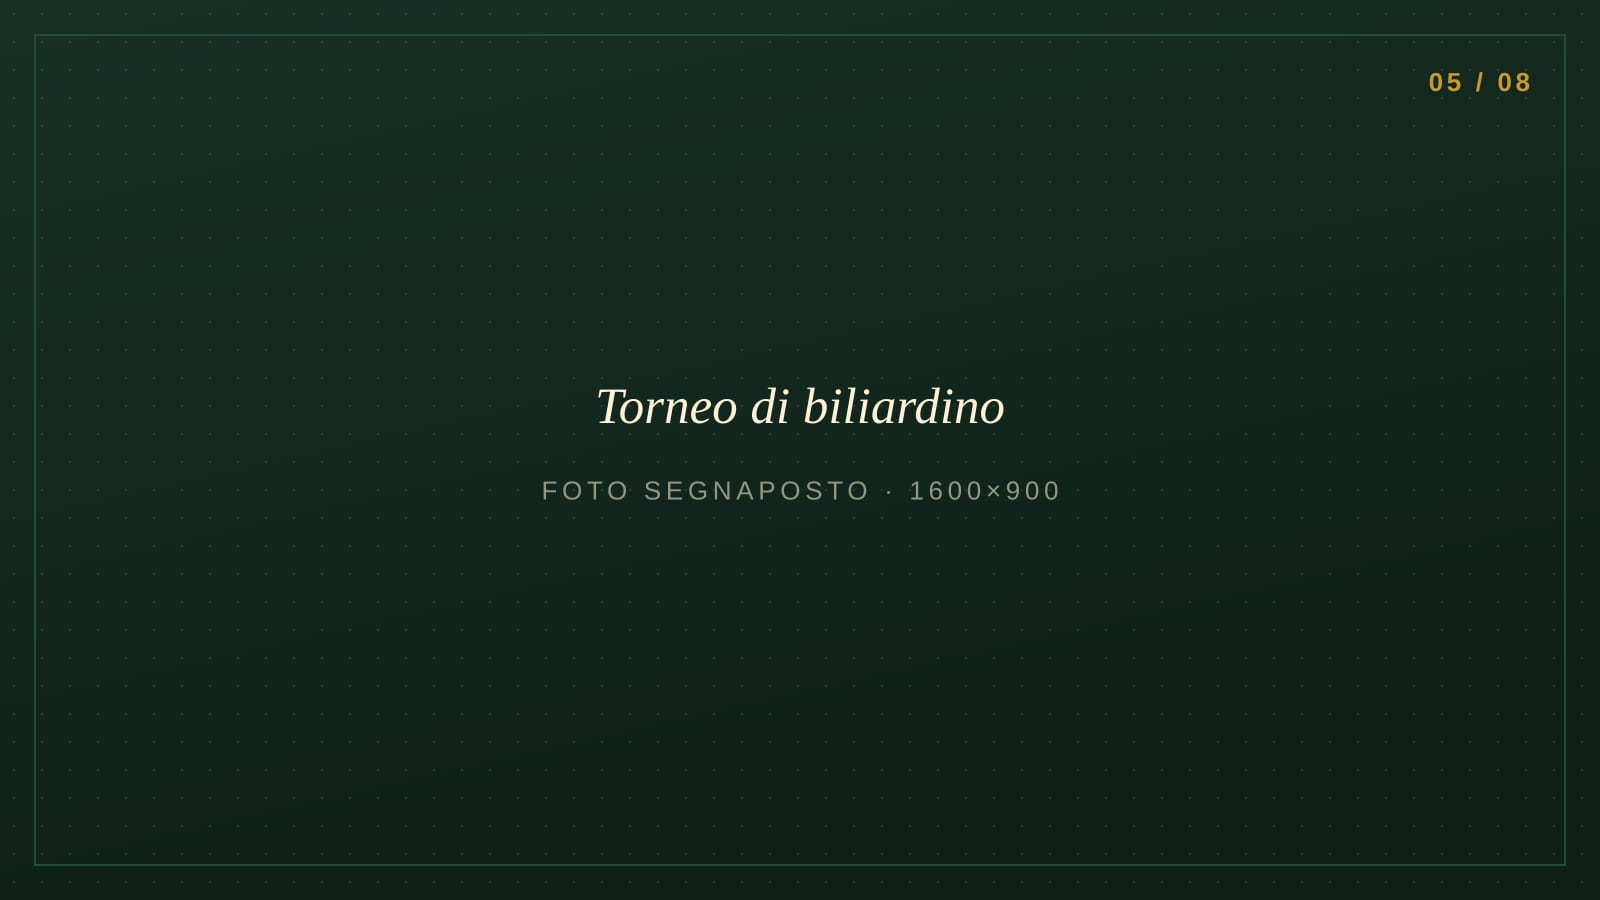
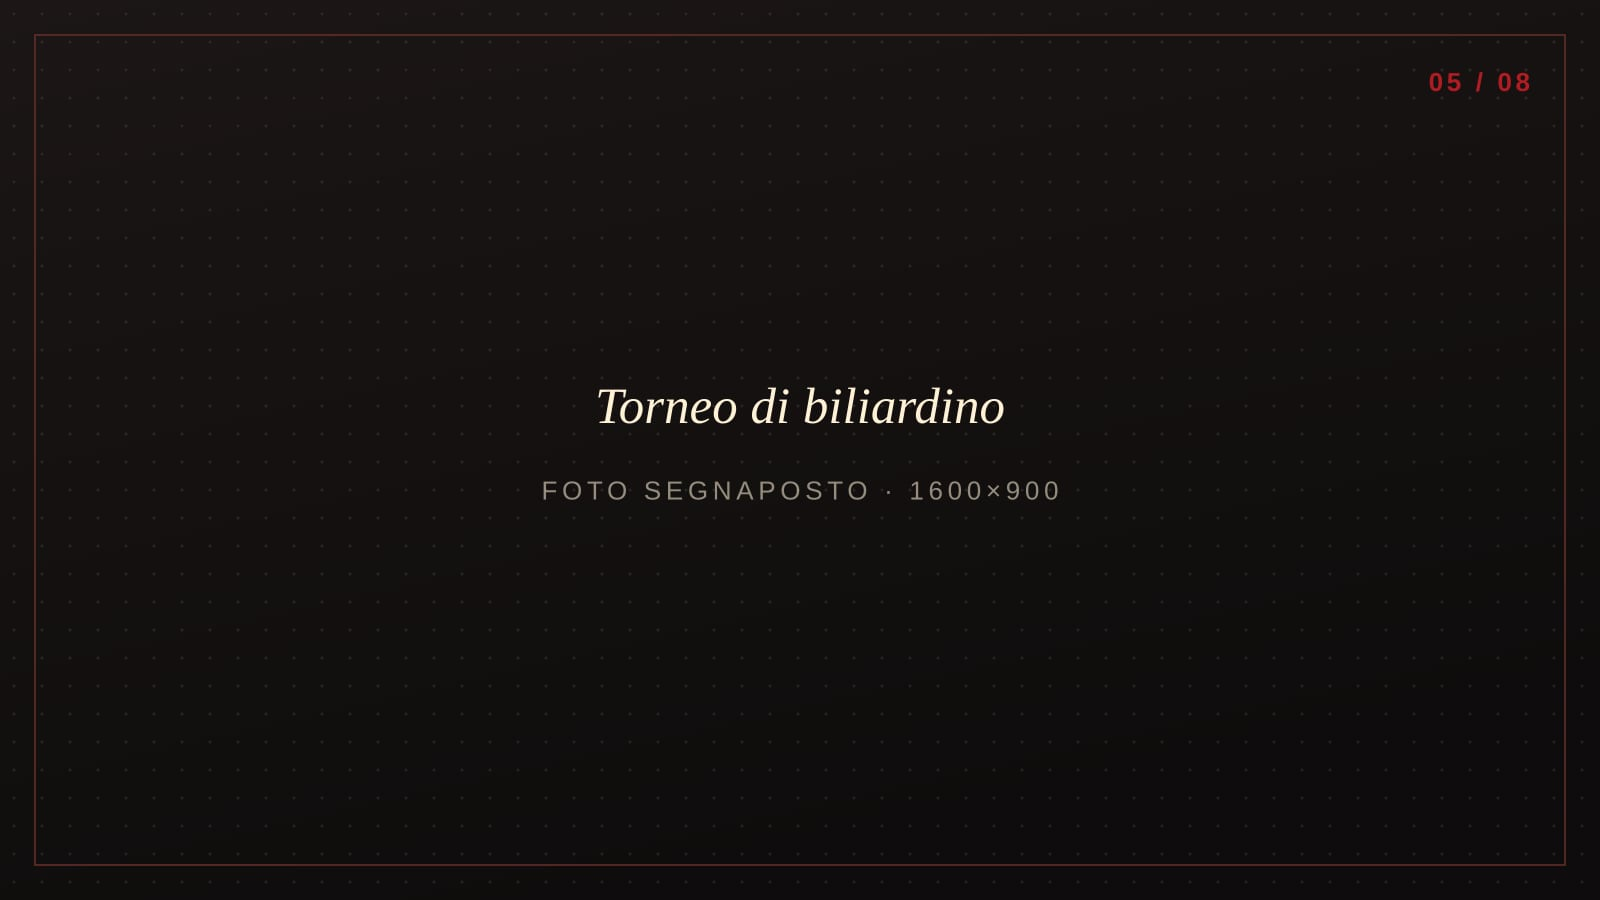
Allinea la palette alla locandina ufficiale e aggiunge i dati mancanti
I colori del marchio non erano quelli del logo isolato: la locandina
dell'inaugurazione li mostra completi. Palette campionata dai file, non scelta
a occhio — rosso #841418-#b81830 dalla fascia e dalla luna, crema #fff1d6 dal
PNG del logo, fondo nero.

Palette
- Il verde e l'ottone sono sostituiti da nero, rosso e crema.
- Il rosso segue l'uso della locandina: sul fondo scuro è riempimento (titoli,
  pulsanti, filetti), sulle sezioni pergamena diventa colore del testo, come il
  "12 SETTEMBRE" sulla toppa di carta. Il testo scuro sul rosso è stato
  sostituito con il crema: 2,2:1 non era leggibile, il crema arriva a 7,6:1.
- Il fondo è #0e0c0c e non nero puro: su schermo il nero pieno contro il crema
  vibra, sulla carta stampata no.
- Badge di difficoltà in inchiostro neutro, rosso riservato al livello alto,
  così ottanta badge non diventano una tavolozza.

Dati presi dalla locandina
- Telefono 352 218 5856, con link WhatsApp: il poster mette il numero sotto
  "per info e prenotazioni", quindi passa nella striscia pratica e nei contatti.
- Comune corretto: Vallescuropasso, Cigognola (PV).
- Tesseramento CSEN obbligatorio dai 6 anni, con possibilità di tesserarsi
  online a prezzo scontato. Era il dato pratico più importante per chi non è
  mai stato al circolo e non compariva da nessuna parte sul sito precedente.
- "Boardgame Inclusive Club" come tagline.
- Programma dell'inaugurazione con i tre orari, reso come tabella nell'evento.
[…]

diff --git a/src/styles/global.css b/src/styles/global.css
@@ -1,16 +1,21 @@
 /*
  * Il Ritrovo della Compagnia — design system
  *
- * The palette is taken from the client's own logo rather than invented: the
- * wordmark is cream line art (#fff1d6 sampled straight from the PNG) drawn for
- * a dark ground — a crescent moon and a sword. So the brand is nocturnal, and
- * the site is built dark to let the logo sit on its intended background.
+ * The palette is the client's own, sampled from their official poster and
+ * logo artwork rather than invented:
+ *   nero    #000     — the poster ground
+ *   rosso   #841418 → #b81830 — the banner and moon ink
+ *   crema   #fff1d6  — sampled from the logo PNG
  *
- * The risk with a dark site in this category is looking like a gamer cave and
- * scaring off casual visitors — the mistake Mox Boarding House publicly
- * rebuilt their own site to fix. Two things keep it approachable here: the
- * ground is a warm green-black rather than pure black, and the dense reading
- * sections (ludoteca, tessera, orari) sit on parchment instead of dark.
+ * How red is used follows the poster: on the black ground it is a fill — big
+ * display type, the moon, rules and buttons — never small body text, where it
+ * would not carry enough contrast. On the parchment sections red becomes the
+ * text colour, exactly as "12 SETTEMBRE" sits on its torn-paper patch.
+ *
+ * The risk with a dark site in this category is looking like a gamer cave —
+ * the mistake Mox Boarding House publicly rebuilt their site to fix. Here the
+ * dense reading sections (ludoteca, prenotazioni, contatti) sit on parchment,
+ * which is also true to the poster's mix of black and aged paper.
  */
 
 @import 'tailwindcss';
@@ -19,33 +24,37 @@
 @import '@fontsource-variable/inter/index.css';
 
 @theme {
-  /* Night — the primary brand ground, green-black and warm, never pure black. */
-  --color-notte: #0e1f17;
-  --color-notte-raised: #142a20;
-  --color-notte-soft: #1c3a2c;
-  --color-notte-line: #27503d;
+  /* Ground. Warm near-black rather than the poster's pure #000: on a backlit
+     screen pure black against cream vibrates, on printed ink it does not. */
+  --color-notte: #0e0c0c;
+  --color-notte-raised: #171313;
+  --color-notte-line: #33231f;
 
   /* Cream — sampled from the logo artwork. */
   --color-crema: #fff1d6;
 
-  /* Parchment — the light counterweight for dense reading sections. */
-  --color-pergamena: #f6ead2;
-  --color-pergamena-sunk: #ecdcbd;
-  --color-inchiostro: #14241b;
-  --color-inchiostro-soft: #4a5a4e;
+  /* Red — the poster's two reds: the deep aged banner and the brighter accent. */
+  --color-rosso: #b31b22;
+  --color-rosso-scuro: #7e1116;
+  --color-rosso-chiaro: #d93a42;
 
-  /* Candlelight accents. */
-  --color-ottone: #c9982f;
-  --color-ottone-chiaro: #e5c887;
-  --color-rame: #a8503a;
+  /* Warm tan, for small caps on the dark ground where red cannot pass contrast. */
+  --color-tan: #d9bba6;
+
+  /* Parchment — the poster's torn-paper patches, and the counterweight that
+     keeps the dense sections readable. */
+  --color-pergamena: #e9dcc6;
+  --color-pergamena-sunk: #dbc9ae;
+  --color-inchiostro: #17110f;
+  --color-inchiostro-soft: #574840;
 
   --font-display: 'Fraunces Variable', 'Iowan Old Style', Georgia, serif;
   --font-sans: 'Inter Variable', system-ui, -apple-system, 'Segoe UI', sans-serif;
 
   --radius-card: 0.875rem;
 
-  --shadow-lift: 0 1px 2px rgb(0 0 0 / 0.2), 0 12px 32px -16px rgb(0 0 0 / 0.55);
-  --shadow-lift-lg: 0 2px 6px rgb(0 0 0 / 0.25), 0 32px 64px -28px rgb(0 0 0 / 0.7);
+  --shadow-lift: 0 1px 2px rgb(0 0 0 / 0.3), 0 12px 32px -16px rgb(0 0 0 / 0.7);
+  --shadow-lift-lg: 0 2px 6px rgb(0 0 0 / 0.35), 0 32px 64px -28px rgb(0 0 0 / 0.85);
 
   --spacing-section: 5rem;
   --spacing-section-lg: 7.5rem;
@@ -91,14 +100,14 @@
   }
 
   :focus-visible {
-    outline: 2px solid var(--color-ottone);
+    outline: 2px solid var(--color-rosso-chiaro);
     outline-offset: 3px;
     border-radius: 2px;
   }
 
   ::selection {
-    background-color: var(--color-ottone);
-    color: var(--color-notte);
+    background-color: var(--color-rosso);
+    color: var(--color-crema);
   }
 
   @media (prefers-reduced-motion: reduce) {
@@ -136,5 +145,6 @@
   font-weight: 600;
   letter-spacing: 0.18em;
   text-transform: uppercase;
-  color: var(--color-ottone);
+  /* Tan by default (dark ground); Section.astro swaps it to red on parchment. */
+  color: var(--color-tan);
 }

diff --git a/src/data/site.ts b/src/data/site.ts
@@ -20,7 +20,9 @@ export interface OpeningHours {
 export const site = {
   name: 'Il Ritrovo della Compagnia',
   shortName: 'Il Ritrovo',
-  tagline: 'Circolo ludico analogico',
+  tagline: 'Boardgame Inclusive Club',
+  /** Come si definiva il sito precedente; resta utile per i sottotitoli. */
+  sottotitolo: 'Circolo ludico analogico',
 
   /** The client's own positioning line. */
   claim: 'Il punto di ritrovo per chi ama il gioco non digitale',
@@ -28,21 +30,23 @@ export const site = {
   promessa: 'Circolo inclusivo e non esclusivo.',
 
   description:
-    'Circolo ludico analogico a Valle Scuropasso: giochi da tavolo, Pokémon, Magic e giochi di ruolo. Atmosfera da gilda, energia da torneo, accoglienza da compagnia.',
+    'Boardgame inclusive club a Vallescuropasso (Cigognola, PV): giochi da tavolo, Pokémon, Magic e giochi di ruolo. Atmosfera da gilda, energia da torneo, accoglienza da compagnia.',
 
   address: {
-    street: 'SP198, 117',
+    street: 'SP 198, 117',
+    /** Località, come indicata sulla locandina. */
+    localita: 'Vallescuropasso',
     postalCode: '27040',
-    city: 'Valle Scuropasso',
+    city: 'Cigognola',
     province: 'PV',
     region: 'Lombardia',
     country: 'IT',
   },
 
   email: 'info@ilritrovodellacompagnia.it',
-  /** TODO: il sito attuale non pubblica un numero di telefono. Chiederlo al cliente. */
-  phone: '',
-  phoneHref: '',
+  phone: '352 218 5856',
+  /** E.164, senza spazi: per i link tel: e wa.me. */
+  phoneHref: '+393522185856',
 
   /** Short link taken from the client's existing "Dove siamo" section. */
   mapsUrl: 'https://maps.app.goo.gl/JvZLMrkzNYQFjNqd8',
@@ -52,6 +56,22 @@ export const site = {
   social: {
     instagram: 'https://www.instagram.com/ilritrovodellacompagnia/',
     instagramHandle: '@ilritrovodellacompagnia',
+    // TODO: chiedere l'URL esatto della pagina Facebook (sulla locandina c'è solo l'icona).
+    facebook: '',
+    whatsapp: 'https://wa.me/393522185856',
+  },
+
+  /**
+   * Tesseramento. Il circolo è affiliato CSEN: la tessera è obbligatoria per
+   * giocare, dai 6 anni in su, e si può fare online a prezzo scontato.
+   */
+  tesseramento: {
+    ente: 'CSEN',
+    enteEsteso: 'Centro Sportivo Educativo Nazionale',
+    etaMinima: 6,
+    // TODO: importo della quota e link al tesseramento online scontato.
+    quota: '',
+    urlOnline: '',
   },
 
   /**
@@ -89,7 +109,7 @@ export const navigation = [
   { href: '#dove-siamo', label: 'Dove siamo' },
 ] as const;
 
-export const indirizzoCompleto = `${site.address.street} · ${site.address.postalCode} ${site.address.city} ${site.address.province}`;
+export const indirizzoCompleto = `${site.address.street}, ${site.address.localita} · ${site.address.postalCode} ${site.address.city} (${site.address.province})`;
 
 /** Monday-first display order, independent of the Date#getDay() numbering. */
 export function hoursInWeekOrder(): OpeningHours[] {

diff --git a/src/content.config.ts b/src/content.config.ts
@@ -24,6 +24,10 @@ const eventi = defineCollection({
     categoria: z.string(),
     /** Shown instead of a single date for recurring nights. */
     ricorrenza: z.string().optional(),
+    /** Timetable within the event, as on the Inaugurazione poster. */
+    programma: z
+      .array(z.object({ orario: z.string(), cosa: z.string() }))
+      .optional(),
     posti: z.union([z.number(), z.literal('illimitati')]).default('illimitati'),
     prenotazioneRichiesta: z.boolean().default(false),
     inEvidenza: z.boolean().default(false),

diff --git a/README.md b/README.md
@@ -1,7 +1,7 @@
 # Il Ritrovo della Compagnia — sito
 
 Ricostruzione del sito di [Il Ritrovo della Compagnia](https://www.ilritrovodellacompagnia.it/),
-circolo ludico analogico a Valle Scuropasso (PV).
+boardgame inclusive club a Vallescuropasso, Cigognola (PV).
 
 Sito statico: nessun server da mantenere, nessun database, tempi di caricamento
 sotto il secondo anche da mobile in 3G.
@@ -36,12 +36,12 @@ Pages, Vercel) oppure via FTP sull'hosting Aruba attuale.
 Sono le uniche cose che bloccano la pubblicazione. Tutto il resto è pronto.
 
 1. **Le foto.** Ora ci sono segnaposto generati. Vedi "Sostituire le foto".
-2. **Numero di telefono** — non è pubblicato sul sito attuale. Se il circolo ne
-   ha uno, va in `src/data/site.ts`.
-3. **Coordinate GPS esatte** — in `src/data/site.ts` c'è un valore approssimato,
+2. **Coordinate GPS esatte** — in `src/data/site.ts` c'è un valore approssimato,
    usato per i dati strutturati e per la mappa.
-4. **Quote associative** — la sezione tessera descrive il funzionamento ma non
-   espone importi, perché non erano pubblicati.
+3. **Quota del tesseramento CSEN** e link alla pagina di tesseramento online
+   scontato (`site.tesseramento.quota` e `site.tesseramento.urlOnline`).
+4. **URL della pagina Facebook** — sulla locandina c'è l'icona ma non l'indirizzo
+   (`site.social.facebook`).
 5. **Codice fiscale / P.IVA dell'associazione** e pagina privacy, per il footer.
 6. **Modulo contatti**: vedi "Attivare il modulo contatti".
 
@@ -53,8 +53,9 @@ Ogni punto è segnato con `TODO` nel codice.
 
 ### Dati del circolo
 
-`src/data/site.ts` — indirizzo, email, orari, Instagram, numeri della hero.
-Nessun componente ha questi valori scritti dentro: si cambiano solo qui.
+`src/data/site.ts` — indirizzo, telefono, email, orari, social, tesseramento
+CSEN e numeri della hero. Nessun componente ha questi valori scritti dentro: si
+cambiano solo qui.
 
 ### Eventi
 
@@ -163,16 +164,24 @@ Web3Forms, oppure dello script PHP già esistente.
 
 ## Scelte progettuali
 
-**Perché scuro.** Il logo del cliente è un disegno a linee color crema (#fff1d6,
-campionato dal file originale) con luna e spada: è nato per stare su fondo
-scuro. La palette parte da lì.
+**La palette è quella del cliente, campionata dai suoi materiali** — non scelta
+a occhio. Dalla locandina ufficiale: fondo nero, rosso `#841418`–`#b81830` per
+la fascia e la luna, crema per il lettering. Il crema `#fff1d6` viene invece
+campionato direttamente dal PNG del logo, che è più pulito della resa stampata.
+
+**Come si usa il rosso.** Come sulla locandina: sul fondo nero è un riempimento
+— titoli grandi, pulsanti, filetti, la luna — mai testo piccolo, dove non
+reggerebbe il contrasto (2,2:1). Sulle sezioni pergamena diventa invece colore
+del testo, esattamente come il "12 SETTEMBRE" sulla sua toppa di carta strappata.
+Il crema sul rosso arriva a 7,6:1, ampiamente sopra la soglia AA.
 
 **Perché non tutto scuro.** Il rischio del tema notturno in questo settore è
 sembrare un covo per soli appassionati. Mox Boarding House ha rifatto il proprio
 sito proprio per questo: il fondo nero risultava _"forbidding or exclusive for
-casual gamers"_. Qui il fondo è un verde-nero caldo, mai nero puro, e le sezioni
-più dense da leggere — ludoteca, prenotazioni, contatti — stanno su pergamena
-chiara.
+casual gamers"_. Qui il nero è appena scaldato (`#0e0c0c`, non `#000`: su
+schermo retroilluminato il nero puro contro il crema vibra, sulla carta no) e le
+sezioni più dense da leggere — ludoteca, prenotazioni, contatti — stanno su
+pergamena, che è anche il secondo materiale della locandina.
 
 **Struttura.** L'ordine delle sezioni segue quello del sito attuale, con la
 galleria spostata subito dopo la presentazione: è la cosa che fa capire più in

diff --git a/src/content/eventi/inaugurazione.md b/src/content/eventi/inaugurazione.md
@@ -6,8 +6,15 @@ categoria: Community
 posti: illimitati
 prenotazioneRichiesta: false
 inEvidenza: true
+programma:
+  - orario: '14:00 – 18:00'
+    cosa: Giochi da tavolo
+  - orario: '18:00 – 21:00'
+    cosa: Aperitivo & giochi
+  - orario: '21:00'
+    cosa: Musica dal vivo
 ---
 
-Dalle 14 alle 18 tavoli aperti con i giochi della ludoteca, dalle 18 alle 21
-aperitivo, dalle 21 musica dal vivo. Si entra quando si vuole e si resta quanto
-si vuole.
+Apre il Boardgame Inclusive Club. Si entra quando si vuole e si resta quanto si
+vuole: tavoli aperti tutto il pomeriggio, aperitivo la sera e musica dal vivo
+per chiudere.
